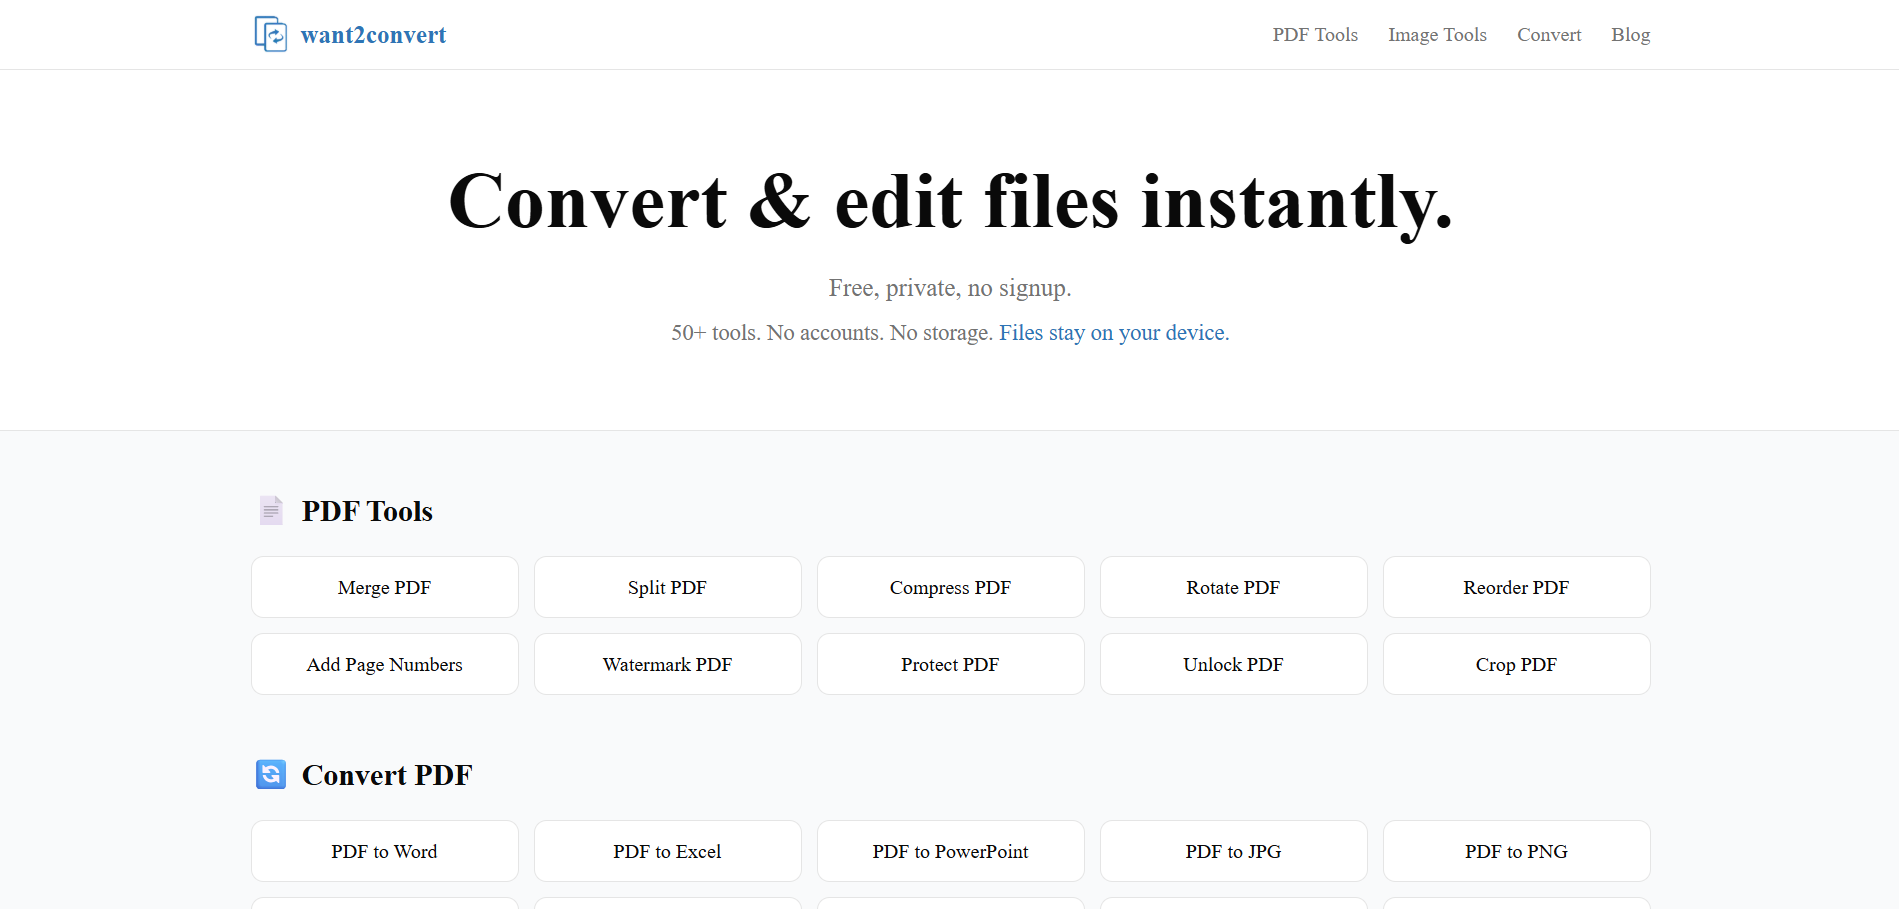
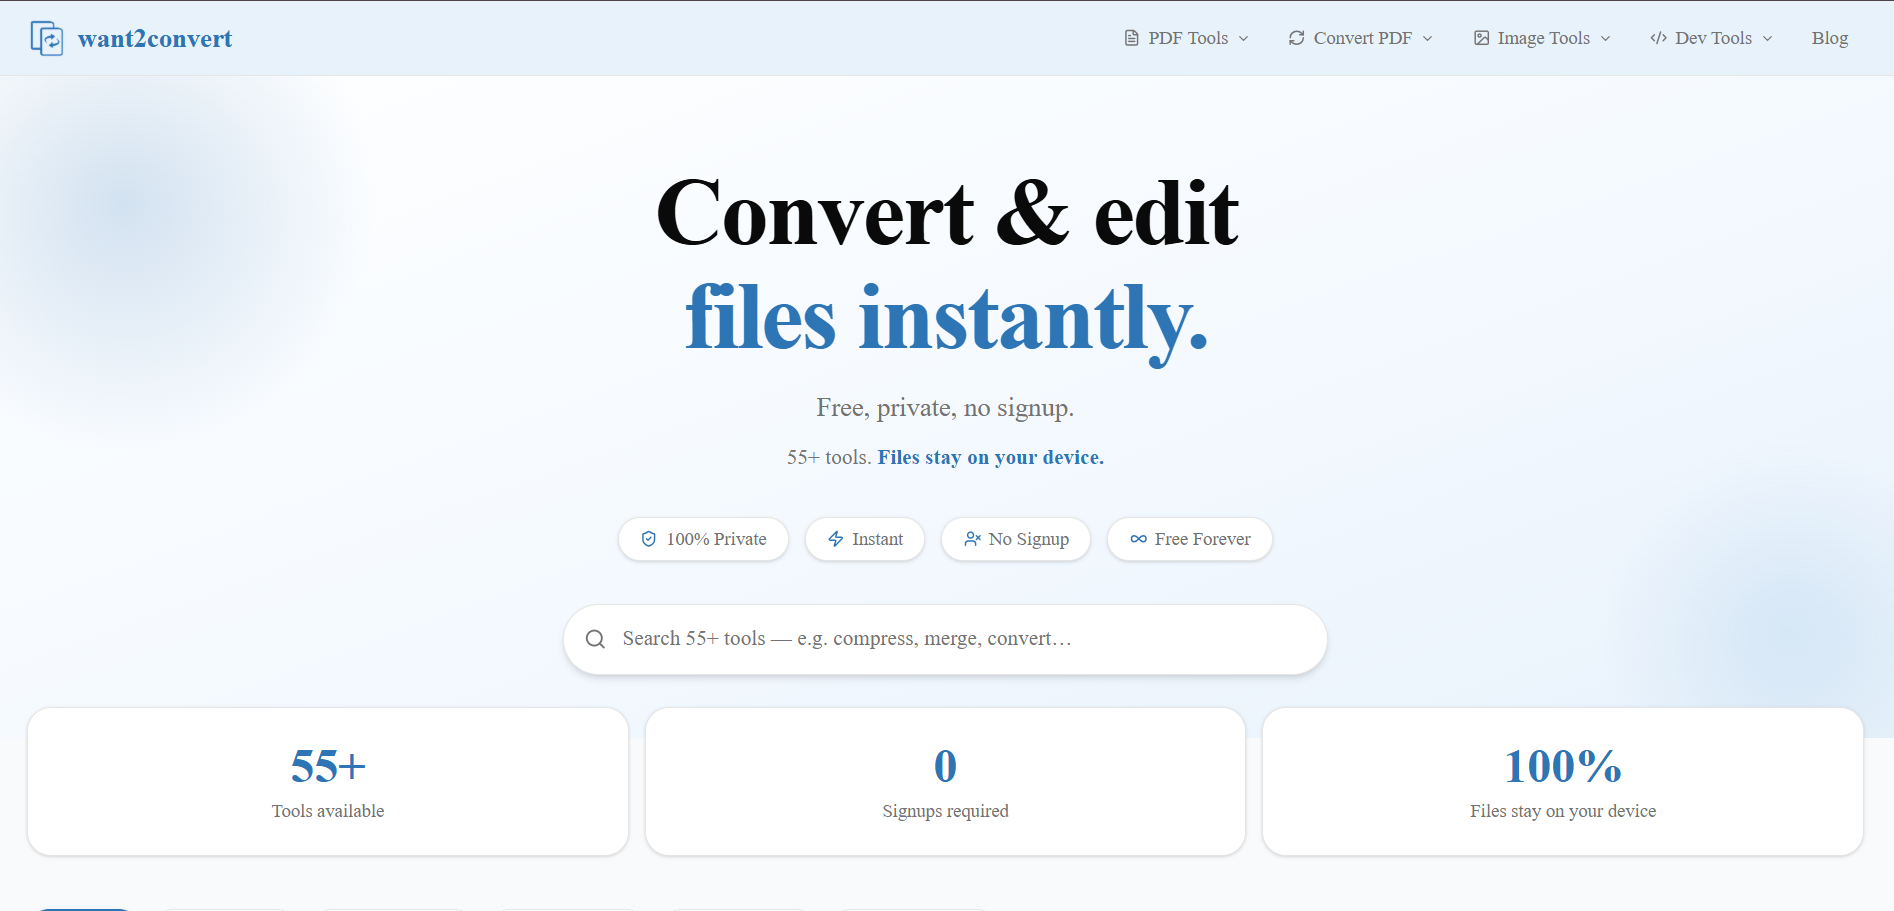
Switch Projects grid to 3-col layout with larger cards, add Event Planners Tanzania
Caps the desktop grid at 3 columns (removed the 4-col breakpoint) and
increases card padding/typography for readability. Adds Event Planners
Tanzania as a new portfolio entry with case study.

diff --git a/src/data/projects.js b/src/data/projects.js
@@ -129,6 +129,32 @@ const projects = [
       duration: '4 weeks',
     },
   },
+  {
+    id: 6,
+    title: 'Event Planners Tanzania',
+    category: 'Website',
+    description:
+      'Corporate website for a Dar es Salaam event production company serving banks, embassies, and telecoms across East Africa — showcasing 13 services from stage design to multilingual interpretation.',
+    tags: ['Next.js', 'Tailwind CSS', 'JavaScript'],
+    image: '/images/eventplannerstanzania.png',
+    imageAlt: 'Event Planners Tanzania — Corporate event production website built by Matowo Dev',
+    liveUrl: 'https://www.eventplannerstanzania.co.tz',
+    repoUrl: null,
+    caseStudy: {
+      problem:
+        'Event Planners Tanzania needed a polished web presence that could win trust with corporate clients like banks, embassies, and telecoms — communicating the full breadth of their services and past client roster in a way that matched the scale of the events they produce.',
+      solution:
+        'Built a fast, content-rich Next.js site styled with Tailwind CSS, covering all 13 service lines, a client showcase, and a clear quotation contact flow. Deployed on Vercel for fast global delivery across East Africa and abroad.',
+      results: [
+        '13 service categories presented with dedicated detail',
+        'Trusted client roster (Azania Bank, NMB, CRDB, US Embassy, UNDP, Vodacom) showcased',
+        'Fast, server-rendered pages via Next.js on Vercel',
+        'Mobile-friendly for clients researching on the go',
+      ],
+      tech: ['Next.js', 'Tailwind CSS', 'JavaScript'],
+      duration: '3 weeks',
+    },
+  },
 ]
 
 export default projects

diff --git a/src/styles/Projects.module.css b/src/styles/Projects.module.css
@@ -88,8 +88,8 @@
 .body {
   display: flex;
   flex-direction: column;
-  gap: 0.75rem;
-  padding: 1.25rem;
+  gap: 0.9rem;
+  padding: 1.6rem;
   flex: 1;
 }
 
@@ -97,14 +97,14 @@
 .tags {
   display: flex;
   flex-wrap: wrap;
-  gap: 0.4rem;
+  gap: 0.5rem;
 }
 
 .tag {
-  font-size: 0.72rem;
+  font-size: 0.78rem;
   font-weight: 600;
   letter-spacing: 0.04em;
-  padding: 0.2rem 0.6rem;
+  padding: 0.25rem 0.7rem;
   background-color: rgba(79, 70, 229, 0.12);
   color: var(--color-accent);
   border: 1px solid rgba(79, 70, 229, 0.2);
@@ -115,15 +115,15 @@
 /* ── Title & description ── */
 .title {
   color: var(--color-text);
-  font-size: 1.1rem;
+  font-size: 1.35rem;
   font-weight: 700;
   letter-spacing: -0.01em;
 }
 
 .description {
   color: var(--color-muted);
-  font-size: 0.9rem;
-  line-height: 1.65;
+  font-size: 0.98rem;
+  line-height: 1.7;
   flex: 1;
 }
 
@@ -131,7 +131,7 @@
 .links {
   display: flex;
   align-items: center;
-  gap: 0.75rem;
+  gap: 0.9rem;
   margin-block-start: 0.25rem;
 }
 
@@ -140,7 +140,7 @@
   display: inline-flex;
   align-items: center;
   gap: 0.3rem;
-  font-size: 0.85rem;
+  font-size: 0.92rem;
   font-weight: 600;
   font-family: var(--font-display);
   border-radius: var(--radius-sm);
@@ -178,13 +178,6 @@
 @media (min-width: 1100px) {
   .grid {
     grid-template-columns: repeat(3, 1fr);
-    gap: 2rem;
-  }
-}
-
-/* ── Wide desktop: 4-column grid ── */
-@media (min-width: 1400px) {
-  .grid {
-    grid-template-columns: repeat(4, 1fr);
+    gap: 2.5rem;
   }
 }
